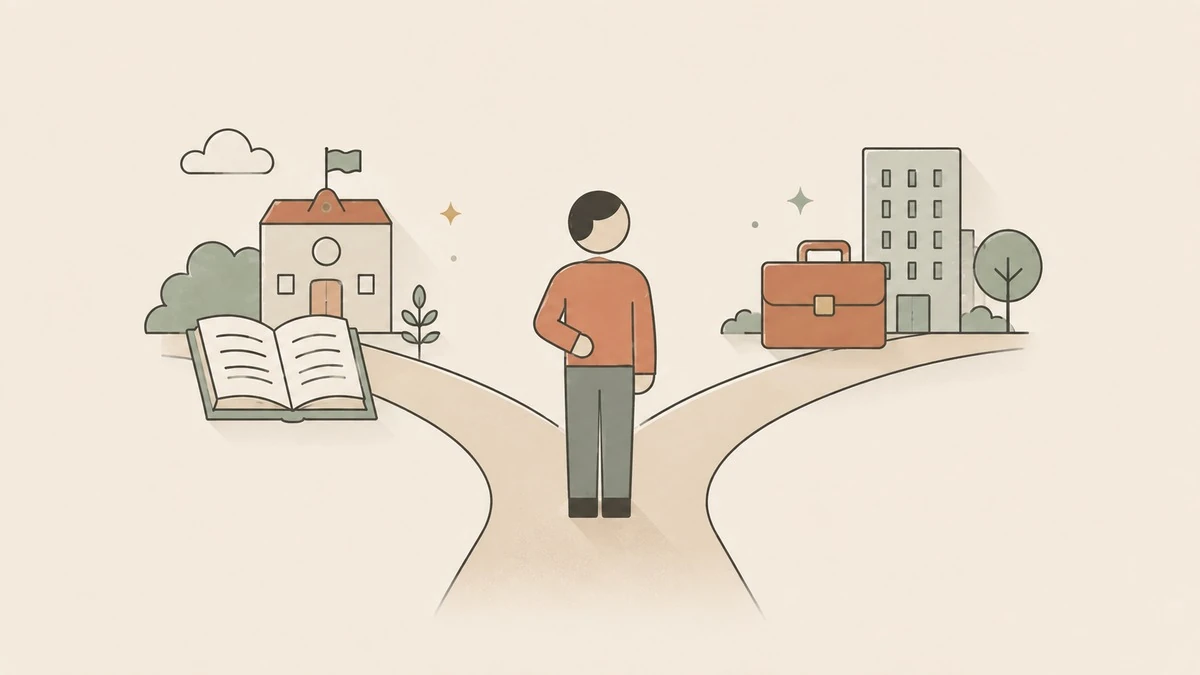
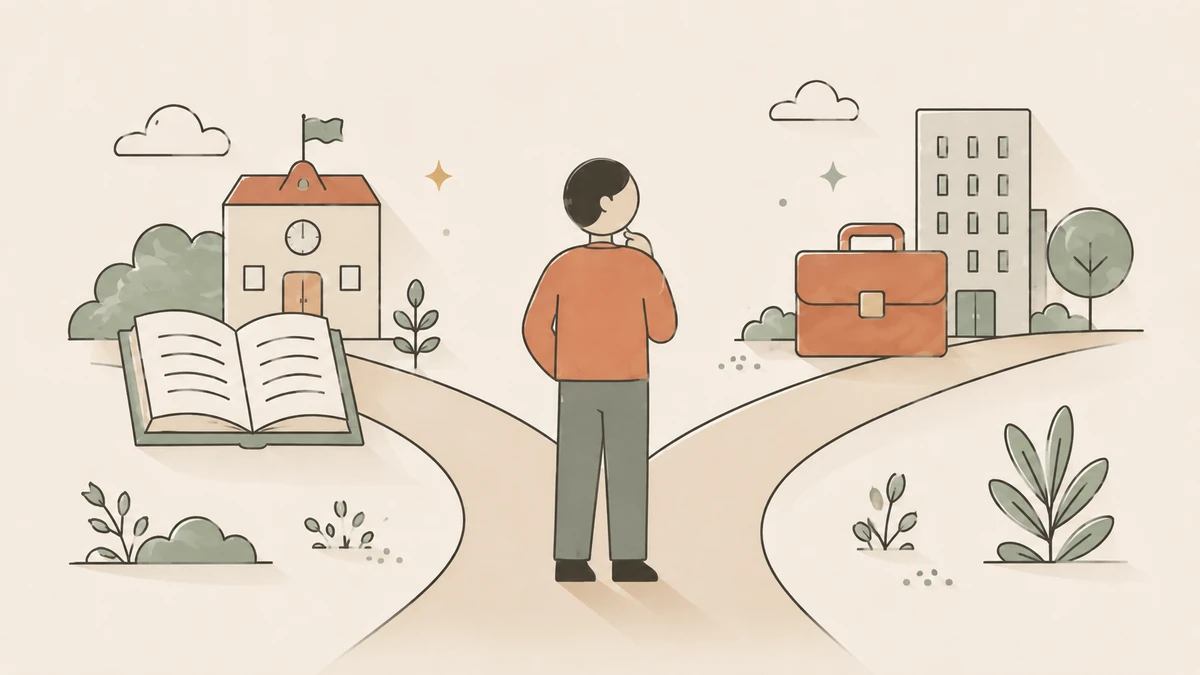
Marcheaza articolele de opinie si schimba hero-ul articolului NEET
Restul site-ului sunt texte factuale pe baza carora oamenii iau decizii cu
bani. Articolul despre tineri contine pozitii economice ale autorului, scrise
in exact acelasi registru vizual. Cine intra din Google nu trebuie sa ghiceasca
in ce fel de text a aterizat — opinia nemarcata care arata ca referinta e o
problema de incredere, nu de design.

Mecanismul e generic, nu legat de slug: camp `tip: "opinie"` in frontmatter →
badge deasupra titlului, eticheta pe cardul din /noutati si `genre: "Opinie"`
in JSON-LD, ca distinctia sa fie citibila si de masina. Se scoate stergand o
linie din frontmatter; celelalte noua articole raman neatinse.

Badge-ul nu apare in SERP: nu e in titlu, descriere sau snippet, deci nu poate
afecta CTR-ul din cautare. Il vede doar cine e deja pe articol sau rasfoieste
lista.

Hero inlocuit cu varianta in care tanarul ezita la bifurcatie, cu alt text
actualizat sa descrie postura — ea e continutul imaginii, nu decorul.

diff --git a/src/app/noutati/[slug]/page.tsx b/src/app/noutati/[slug]/page.tsx
@@ -76,6 +76,8 @@ export default async function ArticolPage({ params }: { params: Promise<{ slug: 
         url,
         mainEntityOfPage: url,
         ...(a.hero ? { image: `https://salariile.ro${a.hero}` } : {}),
+        // Distincția opinie/referință, citibilă și de mașină, nu doar de om.
+        ...(a.tip === "opinie" ? { genre: "Opinie" } : {}),
         author: personSchema,
         publisher: { "@type": "Organization", name: "salariile.ro", url: "https://salariile.ro" },
       },
@@ -95,6 +97,14 @@ export default async function ArticolPage({ params }: { params: Promise<{ slug: 
             <span aria-current="page" className="text-stone-600">Articol</span>
           </nav>
 
+          {/* Marcarea opiniei nu e decor: restul site-ului sunt texte factuale
+              pe baza cărora oamenii iau decizii cu bani. Cine intră din Google
+              trebuie să vadă din prima că aici autorul susține o poziție. */}
+          {a.tip === "opinie" && (
+            <p className="mb-3 inline-flex items-center rounded border border-stone-300 bg-surface px-2 py-1 text-xs font-medium uppercase tracking-wide text-stone-700">
+              Opinie
+            </p>
+          )}
           <div className="mb-3 text-xs uppercase tracking-wide text-stone-600">
             {formatDateRo(a.date)}
             {a.updated && <> · Actualizat {formatDateRo(a.updated)}</>}

diff --git a/src/app/noutati/page.tsx b/src/app/noutati/page.tsx
@@ -85,7 +85,12 @@ export default function NoutatiPage() {
                         )}
                       </div>
                       <div className="flex flex-1 flex-col p-5">
-                        <div className="mb-2 text-xs text-stone-500">{formatDateRo(a.date)} · {a.readingMin} min citire</div>
+                        <div className="mb-2 flex flex-wrap items-center gap-2 text-xs text-stone-500">
+                          {a.tip === "opinie" && (
+                            <span className="rounded border border-stone-300 px-1.5 py-0.5 font-medium uppercase tracking-wide text-stone-700">Opinie</span>
+                          )}
+                          <span>{formatDateRo(a.date)} · {a.readingMin} min citire</span>
+                        </div>
                         <h2 className="mb-2 text-lg font-bold leading-snug tracking-[-0.01em] text-stone-900 group-hover:text-stone-700">{a.title}</h2>
                         <p className="text-sm leading-normal text-stone-600">{a.description}</p>
                         <span className="mt-4 text-sm font-medium text-stone-900 underline underline-offset-2">Citește →</span>

diff --git a/src/lib/noutati.ts b/src/lib/noutati.ts
@@ -22,6 +22,13 @@ export type ArticleMeta = {
   hero?: string; // cale în /public, ex: /noutati/cos-minim.jpg
   heroAlt?: string;
   readingMin: number;
+  /**
+   * „opinie" marchează textele în care autorul susține o poziție, nu doar
+   * descrie o regulă. Restul site-ului sunt referințe pe baza cărora oamenii
+   * iau decizii cu bani, deci cititorul trebuie să știe din prima în ce
+   * registru a intrat. Absent = articol de referință.
+   */
+  tip?: "opinie";
 };
 
 export type Article = ArticleMeta & { html: string };
@@ -54,6 +61,7 @@ function metaFrom(slug: string, data: Record<string, unknown>, content: string):
     hero: (data.hero as string) || undefined,
     heroAlt: (data.heroAlt as string) || undefined,
     readingMin: Math.max(1, Math.round(words / 200)),
+    tip: data.tip === "opinie" ? "opinie" : undefined,
   };
 }
 

diff --git a/content/noutati/tineri-neet-romania-2026.md b/content/noutati/tineri-neet-romania-2026.md
@@ -2,8 +2,9 @@
 title: "Tinerii din România, tot mai departe de școală și piața muncii"
 description: "Aproape unul din cinci tineri din România nu e nici la școală, nici la muncă. Suntem primii în Europa, și de ani buni nu se mișcă nimic."
 date: "2026-08-09"
+tip: "opinie"
 hero: "/noutati/tineri-neet-romania.webp"
-heroAlt: "Ilustrație editorială: un tânăr stă la o bifurcație de drum, cu o școală și o carte deschisă pe o parte, o clădire de birouri și o servietă pe cealaltă, în tonuri de terracotta și salvie pe fundal nisipiu."
+heroAlt: "Ilustrație editorială: un tânăr stă nehotărât la o bifurcație de drum, cu mâna la bărbie. Pe o parte, o școală și o carte deschisă; pe cealaltă, o clădire de birouri și o servietă. Tonuri de terracotta și salvie pe fundal nisipiu."
 ---
 
 Azi aș vrea să vorbim despre tinerii din România. De ce?
